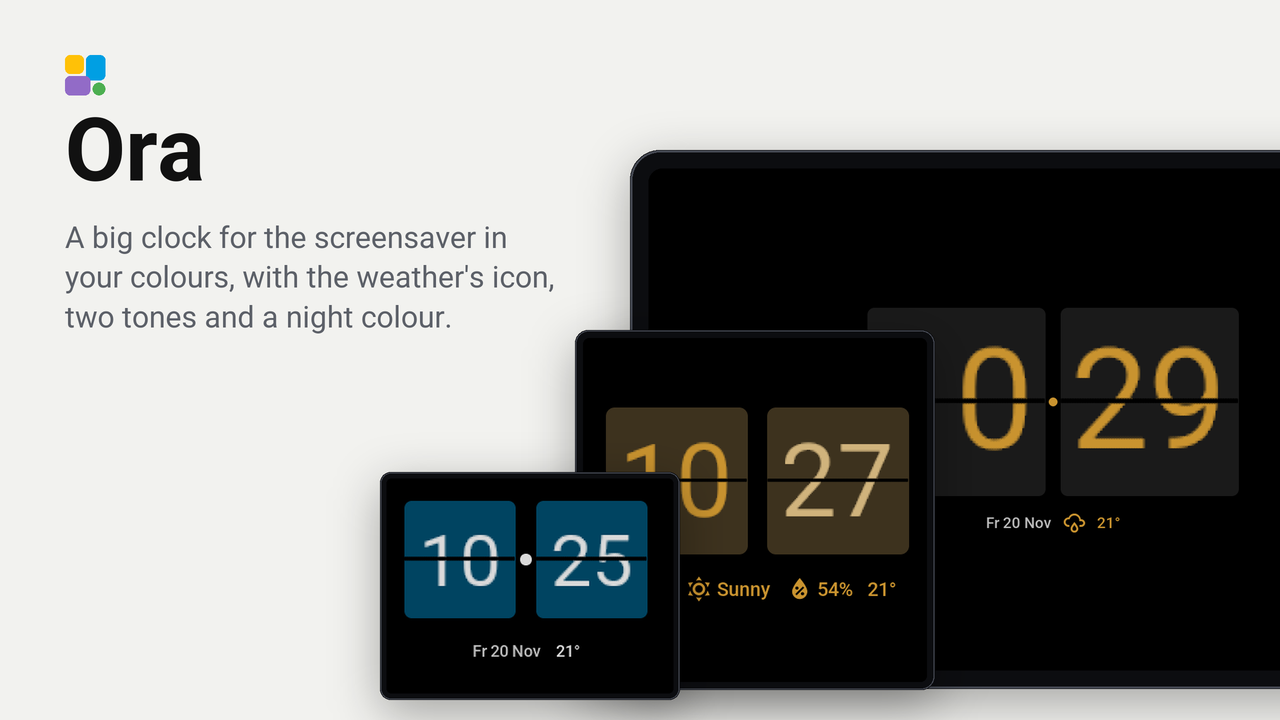
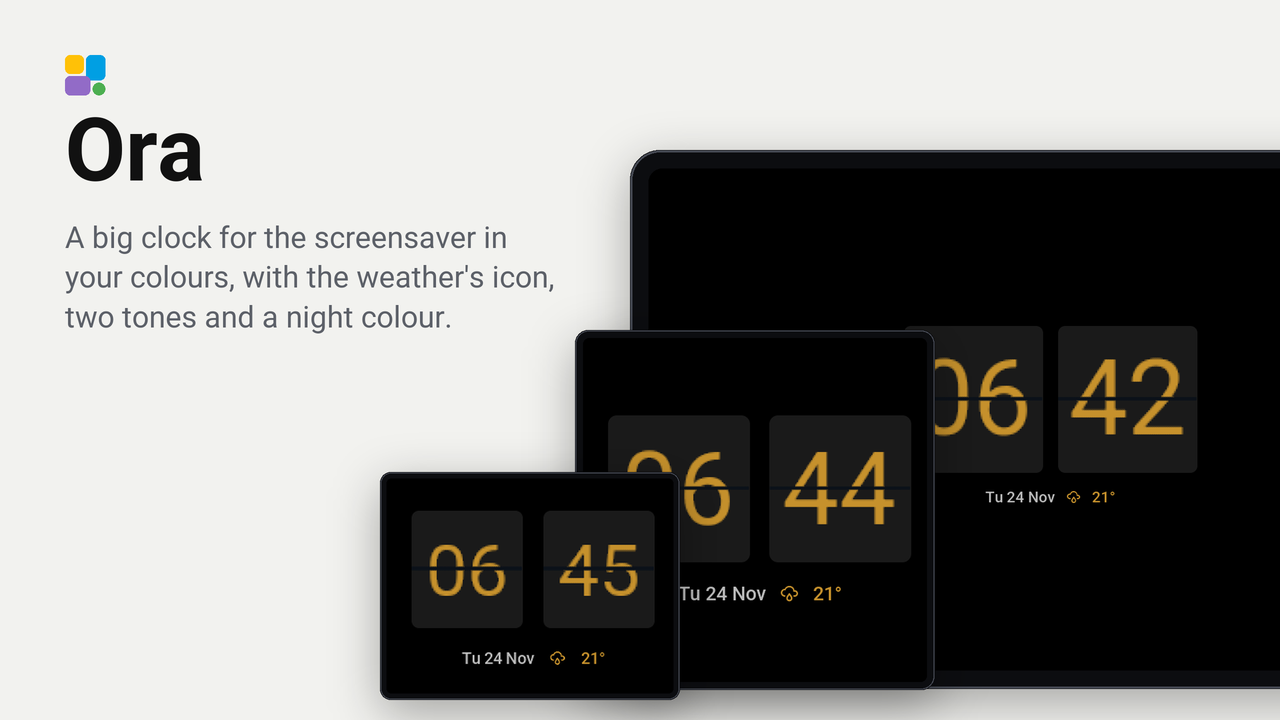
Ora 1.0.1: colours only from the plugin API's theme roles
Review of the store listing (tessera-plugins#63): Ora borrowed roles of
Tessera's own cards (BAUHAUS_YELLOW, BAUHAUS_RED, ENERGY_SOLAR,
ENERGY_DEVICE_3/4, BEDSIDE, CAMERA_PAGE). Every colour now comes from the
documented roles (MARK_*, the ALERT tone, INK, SUBTLE, INSTRUMENT), alone
or mixed. Needs plugin API 0.27 for INSTRUMENT.

The log of each row item is ESP_LOGV now, so a normal log stays quiet.

Changed region(s): [[0.3125, 0.4278, 0.9688, 0.9167]]

diff --git a/components/ora/ora.cpp b/components/ora/ora.cpp
@@ -19,11 +19,12 @@ namespace L = ora_logic;
 // entities (a weather entity shows its condition: sun, cloud, rain), and the outside temperature. The logic (choices,
 // texts, places) is in ora_logic.h, tested on a computer; this file only draws.
 //
-// Colours are theme roles, as the plugin rules ask (never a colour as a number). A saver is drawn in the dark look,
-// so each colour is the dark value of its role: gold #C9932F, amber #FFC107, orange #FF9800, red #B23A26,
-// pink #B54C9D, purple #926BC7, blue #009FE3, teal #5BD0CC, green #4CAF50, white, grey #888888; champagne, oak,
-// walnut and mint are mixes of those (#D1B37C, #B78E53, #7A5F37, #B0D7D5). The screen moves the whole saver a
-// millimetre every minute, so it stands still itself.
+// Colours are theme roles of the plugin API (never a colour as a number, never a role of Tessera's own cards): the four
+// colours of the Tessera mark, the alert tone, the ink and the instrument's dark ground, alone or mixed. A saver is
+// drawn in the dark look, so in it: amber #FFC107, blue #009FE3, purple #926BC7, green #4CAF50, white the ink, grey
+// #8A8A8A; gold, orange, red, pink and teal are mixes (#C6912C, #FCA012, #AF342D, #B25D96, #62B9CE), and champagne,
+// oak, walnut and mint mixes of those (#B6925B, #795F37). The screen moves the whole saver a millimetre every minute, so it stands still
+// itself.
 
 static const char *const TAG = "ora";
 
@@ -31,29 +32,41 @@ namespace {
 
 constexpr int MAX_ITEMS = 4;  // the clock's row holds at most four entities (Tessera's ITEMS_MAX)
 
-lv_color_t black() { return ui::color(theme::CAMERA_PAGE); }
-
-// Light wood: the orange of solar power softened with the bedside grey (#B78E53); walnut is it darker (#7A5F37).
-lv_color_t oak() { return lv_color_mix(ui::color(theme::ENERGY_SOLAR), ui::color(theme::BEDSIDE), 100); }
+// The dark ground of an instrument's face, dark in both looks (#0B1119): the near black of the boxes and the hinge.
+lv_color_t black() { return ui::color(theme::INSTRUMENT); }
+// Home Assistant's red as the look draws it, and the amber of the Tessera mark.
+lv_color_t alert() { return ui::tone_color(tessera::Tone::ALERT, theme::INK); }
+lv_color_t amber() { return ui::color(theme::MARK_AMBER); }
+lv_color_t gold() { return lv_color_mix(lv_color_mix(amber(), alert(), 135), ui::color(theme::MARK_GREEN), 180); }
+lv_color_t orange() { return lv_color_mix(amber(), alert(), 190); }
+lv_color_t teal() {
+  return lv_color_mix(lv_color_mix(ui::color(theme::MARK_BLUE), ui::color(theme::MARK_GREEN), 205), ui::color(theme::INK),
+                      150);
+}
+lv_color_t grey() { return ui::color(theme::SUBTLE); }
+// Light wood: orange softened with grey (#B6925B). Walnut: orange darkened, then greyed (#795F37); darkened with the
+// instrument's ground alone it turns cold.
+lv_color_t oak() { return lv_color_mix(orange(), grey(), 100); }
+lv_color_t walnut() { return lv_color_mix(lv_color_mix(orange(), black(), 110), grey(), 180); }
 
 // The colour a person picked, as the glass shows it; `same` for SAME (and anything that is no colour).
 lv_color_t paint(L::Colour c, lv_color_t same) {
   switch (c) {
-    case L::Colour::GOLD: return ui::color(theme::BAUHAUS_YELLOW);
-    case L::Colour::CHAMPAGNE: return lv_color_mix(ui::color(theme::INK), ui::color(theme::BAUHAUS_YELLOW), 115);
-    case L::Colour::AMBER: return ui::color(theme::MARK_AMBER);
-    case L::Colour::ORANGE: return ui::color(theme::ENERGY_SOLAR);
-    case L::Colour::RED: return ui::color(theme::BAUHAUS_RED);
-    case L::Colour::PINK: return ui::color(theme::ENERGY_DEVICE_3);
+    case L::Colour::GOLD: return gold();
+    case L::Colour::CHAMPAGNE: return lv_color_mix(ui::color(theme::INK), gold(), 115);
+    case L::Colour::AMBER: return amber();
+    case L::Colour::ORANGE: return orange();
+    case L::Colour::RED: return lv_color_mix(alert(), black(), 180);
+    case L::Colour::PINK: return lv_color_mix(ui::color(theme::MARK_PURPLE), alert(), 170);
     case L::Colour::PURPLE: return ui::color(theme::MARK_PURPLE);
     case L::Colour::BLUE: return ui::color(theme::MARK_BLUE);
-    case L::Colour::TEAL: return ui::color(theme::ENERGY_DEVICE_4);
+    case L::Colour::TEAL: return teal();
     case L::Colour::GREEN: return ui::color(theme::MARK_GREEN);
     case L::Colour::OAK: return oak();
-    case L::Colour::WALNUT: return lv_color_mix(oak(), black(), 170);
-    case L::Colour::MINT: return lv_color_mix(ui::color(theme::INK), ui::color(theme::ENERGY_DEVICE_4), 170);
+    case L::Colour::WALNUT: return walnut();
+    case L::Colour::MINT: return lv_color_mix(ui::color(theme::INK), teal(), 170);
     case L::Colour::WHITE: return ui::color(theme::INK);
-    case L::Colour::GREY: return ui::color(theme::BEDSIDE);
+    case L::Colour::GREY: return grey();
     case L::Colour::SOFT: return ui::color(theme::INK_SOFT);
     default: return same;
   }
@@ -85,7 +98,7 @@ class OraSaver : public tessera::Saver {
     seconds_ = c.options["seconds"] | true;
 
     const L::Ink ink = L::ink_for(digits, minutes, night, c.night);
-    lv_color_t hours_ink = paint(ink.hours, ui::color(theme::BAUHAUS_YELLOW));
+    lv_color_t hours_ink = paint(ink.hours, gold());
     lv_color_t minutes_ink = paint(ink.minutes, hours_ink);
     if (ink.dimmed) {
       hours_ink = deeper(hours_ink);
@@ -172,7 +185,7 @@ class OraSaver : public tessera::Saver {
       if (count == MAX_ITEMS) break;
       next[count].icon = item["icon"] | 0u;
       std::snprintf(next[count].text, sizeof(next[count].text), "%s", item["text"] | "");
-      ESP_LOGD(TAG, "row item %d: icon %05X, text '%s'", count, static_cast<unsigned>(next[count].icon), next[count].text);
+      ESP_LOGV(TAG, "row item %d: icon %05X, text '%s'", count, static_cast<unsigned>(next[count].icon), next[count].text);
       ++count;
     }
     if (count != count_ || std::memcmp(next, items_, sizeof(items_)) != 0) {
@@ -245,7 +258,7 @@ class OraSaver : public tessera::Saver {
     if (style_ == L::Style::CARDS) {
       // The hinge across the middle of the digits, where the card folds: a child of the digits, so it lies over them
       // and scales with them, as in Tessera's Flip clock.
-      lv_obj_t *hinge = ui::block(digits, theme::CAMERA_PAGE);
+      lv_obj_t *hinge = ui::block(digits, theme::INSTRUMENT);
       lv_obj_set_style_radius(hinge, 0, 0);
       const int h = std::max(1, ui::px(2));
       lv_obj_set_size(hinge, lw, h);

diff --git a/CHANGELOG.md b/CHANGELOG.md
@@ -1,5 +1,13 @@
 # Changelog
 
+## 1.0.1
+- Colours only from the plugin API's theme roles: the Tessera mark's four colours, the alert tone, the ink and the
+  instrument's dark ground, alone or mixed. Ora no longer borrows the roles of Tessera's own cards (Bauhaus, energy,
+  bedside, camera), so a change to one of those cards no longer changes Ora or breaks its build. Gold, orange, red,
+  pink and teal are mixes now and look a shade different; red is a little brighter, teal a little bluer.
+- The log of each item of the clock's row is verbose now, not debug: a normal log stays quiet at every update.
+- Needs a screen with plugin API 0.27 or newer (the instrument's ground).
+
 ## 1.0.0
 - First version: a face of the screensaver's clock. Hours and minutes in two boxes (flip cards, outline or plain),
   Large, Stacked or Normal; fifteen colours (wood tones and mint among them) with two tones, a box colour of their

diff --git a/README.md b/README.md
@@ -71,7 +71,7 @@ says otherwise. Under each one, the options that make it.
 - **The firmware build** on GitHub (`.github/workflows/build.yml`) compiles Ora into the newest Tessera release for the
   CYD (ESP32, 4 MB), the Guition 4-inch (ESP32-S3) and the Guition 10.1-inch V3 (ESP32-P4), at every change and
   every Monday.
-- Every screen Tessera supports can run it (`boards: any`) once it has plugin API 0.14. Screens that never go into
+- Every screen Tessera supports can run it (`boards: any`) once it has plugin API 0.27. Screens that never go into
   standby, such as the Waveshare 4.3-inch, show no screensaver at all, so no Ora either.
 - On a large screen (7 and 10 inch) the clock stays in the middle at three times the digits' own size instead of
   filling the glass: larger, the scaled digits show their pixels.
